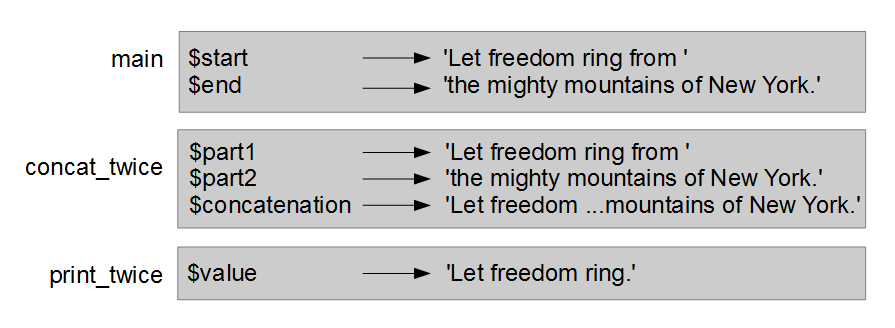
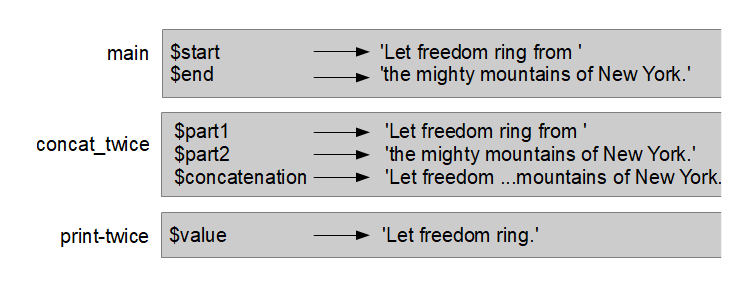
Fixing Figure 3.1

Changed region(s): [[0.0306, 0.0931, 0.9787, 0.931]]

diff --git a/book/chapt_func.tex b/book/chapt_func.tex
@@ -812,7 +812,8 @@ the previous example is shown in Figure~\ref{fig.stack}.
 
 \begin{figure}
 \centerline
-{\includegraphics[scale=1.2]{figs/stack_diagram.png}}
+{\includegraphics[scale=0.8]{figs/stack.png}}
+%{\includegraphics[scale=1.2]{figs/stack_diagram.png}}
 \caption{Stack diagram.}
 \label{fig.stack}
 \end{figure}
